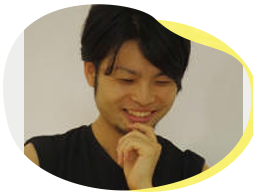
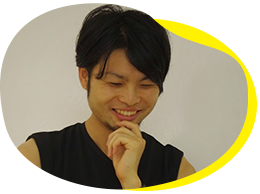
20141210
画像追加、差し替え、メンバー画像（ホバーで切り替えしました）

diff --git a/index.html b/index.html
@@ -37,17 +37,6 @@
         <!-- build:js js/head.js -->
         <!--<script src="./lib/modernizr/modernizr.js"></script>-->
         <!-- endbuild -->
-      <script type="text/javascript">
-	    $(function(){
-     $('a img.hovimg').hover(function(){
-        $(this).attr('src', $(this).attr('src').replace('.png', '_on.png'));
-          }, function(){
-             if (!$(this).hasClass('currentPage')) {
-             $(this).attr('src', $(this).attr('src').replace('_on.png', '.png'));
-        }
-   });
-});
-</script>
     </head>
     <body>
     <!-- build:js js/ua.js -->
@@ -125,8 +114,7 @@
 <section class="member" id="member">
 
     <h2 class="member_text">
-        MEMBER
-        <span>メンバー紹介</span>
+     <img src="img/title_member.png" alt="MEMBER" />
     </h2>
 
     <!--レギュラー-->
@@ -137,39 +125,37 @@
         <img src="img/member_tolablkun.png" alt="tolablkun" width="100px" class="tolablkun"/>
 
         <a href="#"><img src="img/member_ouma.png" alt="ouma" width="200px" class="ouma hovimg"/></a>
-<!--		<div class="over ouma">OUMA</div>
--->			
+			
 
-        <img src="img/member_shirahama.png" alt="shirahama" width="200px" class="shirahama"/>
-        <div class="over shirahama">SHIRAHAMA</div>
+        <img src="img/member_shirahama.png" alt="shirahama" width="200px" class="shirahama hovimg"/>
 
-        <img src="img/member_nobi.png" alt="n0bisuke" width="200px" class="n0bisuke"/>
-        <div class="over n0bisuke">n0bisuke</div>
+        <img src="img/member_nobi.png" alt="n0bisuke" width="200px" class="n0bisuke hovimg"/>
 
-        <img src="img/member_chiba.png" alt="chiba" width="200px" class="chiba"/>
-        <div class="over chiba">chiba</div>
+        <img src="img/member_chiba.png" alt="chiba" width="200px" class="chiba hovimg"/>
 
-        <img src="img/member_5.png" alt="5" width="150px" class="five"/>
+        <img src="img/member_5.png" alt="5" width="150px" class="five hovimg"/>
     </div>
 
     <!--セミレギュラー-->
     <div class="semiregular">
         <h3 class="member_sub_text line_bg">TOLABL SEMI REGULAR</h3>
 
-        <img src="img/member_ajico.jpg" alt="ouma"/>
+        <img src="img/member_ryuyamamoto.jpg" alt="chiba"/>
         <img src="img/member_hiderino.jpg" alt="shirahama"/>
         <img src="img/member_imamura.jpg" alt="n0bisuke"/>
+        <img src="img/member_yokonakagawa.jpg" alt="chiba"/>
+        <img src="img/member_riekokawamitsu.jpg" alt="chiba"/>
+        <img src="img/member_makoto.jpg" alt="ouma"/>
+      <img src="img/member_ajico.jpg" alt="ouma"/>
+      <img src="img/member_numagami.jpg" alt="n0bisuke"/>
         <img src="img/member_kato.jpg" alt="chiba"/>
-        <img src="img/member_kubara.jpg" alt="chiba"/>
+      <img src="img/member_otori.jpg" alt="chiba"/>
+      <img src="img/member_haru.jpg" alt="ouma"/>
 
         <img src="img/member_nakamura.jpg" alt="ouma"/>
+      <img src="img/member_kubara.jpg" alt="chiba"/>
         <img src="img/member_nii.jpg" alt="shirahama"/>
-        <img src="img/member_numagami.jpg" alt="n0bisuke"/>
-        <img src="img/member_otori.jpg" alt="chiba"/>
-        <img src="img/member_riekokawamitsu.jpg" alt="chiba"/>
 
-        <img src="img/member_ryuyamamoto.jpg" alt="chiba"/>
-        <img src="img/member_yokonakagawa.jpg" alt="chiba"/>
 
     </div>
 
@@ -204,6 +190,7 @@
                     <li>喫煙</li>
                     <li>騒音注意</li>
                 </ul>
+    <p class="icon_sch"><a href=""><img src="img/sch.png" alt="予定帳" /></a></p>
             </div>
 
         </div>
@@ -324,7 +311,7 @@
             <ul class="ride">
                 <li>浅草駅松屋前のりば</li>
                 <li>南千住行き 東42甲系統</li>
-                <li>コミュニティバス めぐいん</li>
+                <li>コミュニティバス めぐりん</li>
                 <li>北めぐりん 清川二丁目降り場下車 徒歩1分</li>
             </ul>
         </ul>
@@ -348,7 +335,7 @@
         <!--<p>NEWS</p>-->
     <!--</div>-->
     <div class="copy">
-        <p>@2014 RELATION INC. ALL RIGHT RESERVED.</p>
+        <p>&copy;2014 <a href="http://www.relationsgroup.co.jp/">RELATIONS Inc. </a> ALL RIGHT RESERVED.</p>
     </div>
 </footer>
     <!-- build:js js/common.js -->
@@ -372,6 +359,25 @@
     <!-- build:js js/index.js -->
     <script src="./js/lib/jquery.bxslider.min.js"></script>
     <!--<script src="./js/index.js"></script>-->
+      <script type="text/javascript">
+	    $(function(){
+     $('img.hovimg,.semiregular img').hover(function(){
+        $(this).attr('src', $(this).attr('src').replace('.png', '_on.png'));
+          }, function(){
+             if (!$(this).hasClass('currentPage')) {
+             $(this).attr('src', $(this).attr('src').replace('_on.png', '.png'));
+        }
+   });
+     $('.semiregular img').hover(function(){
+        $(this).attr('src', $(this).attr('src').replace('.jpg', '_on.jpg'));
+          }, function(){
+             if (!$(this).hasClass('currentPage')) {
+             $(this).attr('src', $(this).attr('src').replace('_on.jpg', '.jpg'));
+        }
+   });
+
+});
+</script>
 
 <!-- endbuild -->
     

diff --git a/css/index.css b/css/index.css
@@ -37,7 +37,8 @@
   .main h2 {
     text-align: center;
     font-size: 30px;
-    margin-top: 30px; }
+    margin-top: 30px;
+	width:100%; }
   .main .block {
     width: 339px;
     float: left;
@@ -55,8 +56,8 @@
 
 .sub_slider {
   width: 100%;
-  height: 530px;
-  position: relative;
+/*  height: 530px;
+*/  position: relative;
   margin-top: 50px; }
   .sub_slider:before {
     display: block;
@@ -71,7 +72,8 @@
 
 .member {
   width: 1024px;
-  margin: 0 auto; }
+  margin: 0 auto;
+  padding:20px 0; }
   .member .member_text {
     margin-left: 10px; }
     .member .member_text span {
@@ -131,13 +133,16 @@
   .member .semiregular img {
     width: 150px;
     border-radius: 300px;
-    margin: 0px 20px 0px 20px; }
+    margin: 0px 20px 10px 20px; }
 
 .space {
   width: 100%;
   margin: 0 auto;
+  background:url(../img/space_bg.png) repeat-x;
+  background-size:cover;
   background-color: #0b0a0b;
-  color: white; }
+  color: white;
+  overflow:hidden; }
   .space .space_main {
     width: 1024px;
     margin: 0 auto;
@@ -149,11 +154,16 @@
       overflow: hidden; }
       .space .space_main .space_detail .space_outline {
         float: left;
-        margin-right: 30%; }
+        margin-right: 10%; }
       .space .space_main .space_detail .space_ban {
         margin-top: 40px; }
   .space .icon_photo_text {
-    margin-left: 46%; }
+    margin-left: 46%;
+	margin-bottom:5px;}
+  .space .icon_sch {
+	  float:right;
+	  padding:0 30px;
+}
 
 .space_photo {
   width: 1024px;
@@ -174,10 +184,11 @@
     margin-right: 30%;
     width: 30%; }
   .accessAndContact .access {
-    font-weight: bold; }
+    font-weight: normal; }
     .accessAndContact .access .means {
       font-size: 14px;
-      margin-left: 56%; }
+      margin-left: 56%;
+	  line-height:1.5em; }
       .accessAndContact .access .means li {
         list-style-type: none; }
       .accessAndContact .access .means .ride {

diff --git a/css/common.css b/css/common.css
@@ -47,7 +47,10 @@ footer .copy {
   margin-top: -20px;
   height: 70px;
   background-color: #000011; }
+  footer .copy a {
+    color: #ffffff;
+	text-decoration:none; }
   footer .copy p {
     padding-top: 30px;
     color: #ffffff;
-    text-align: center; }
+    text-align: center;}
